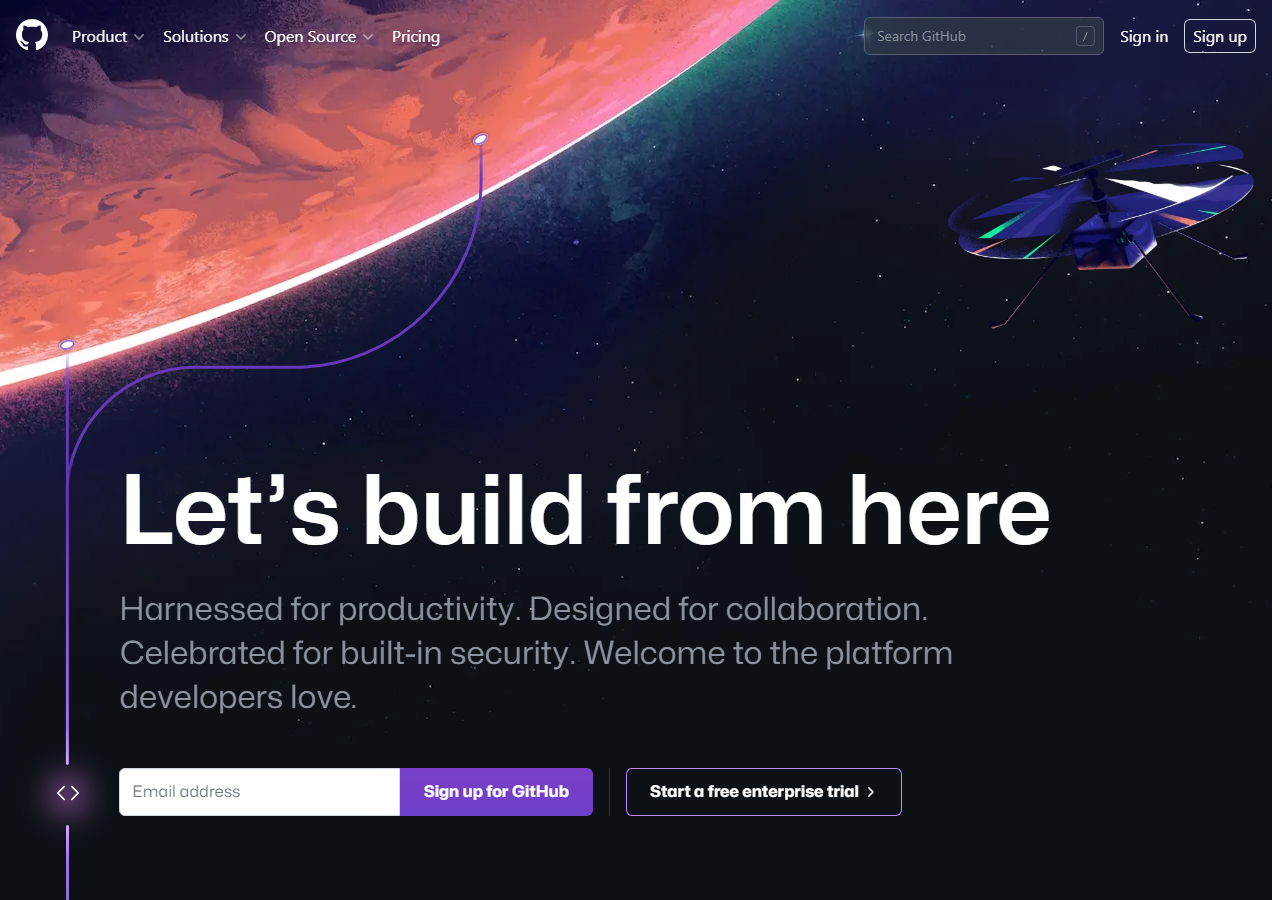
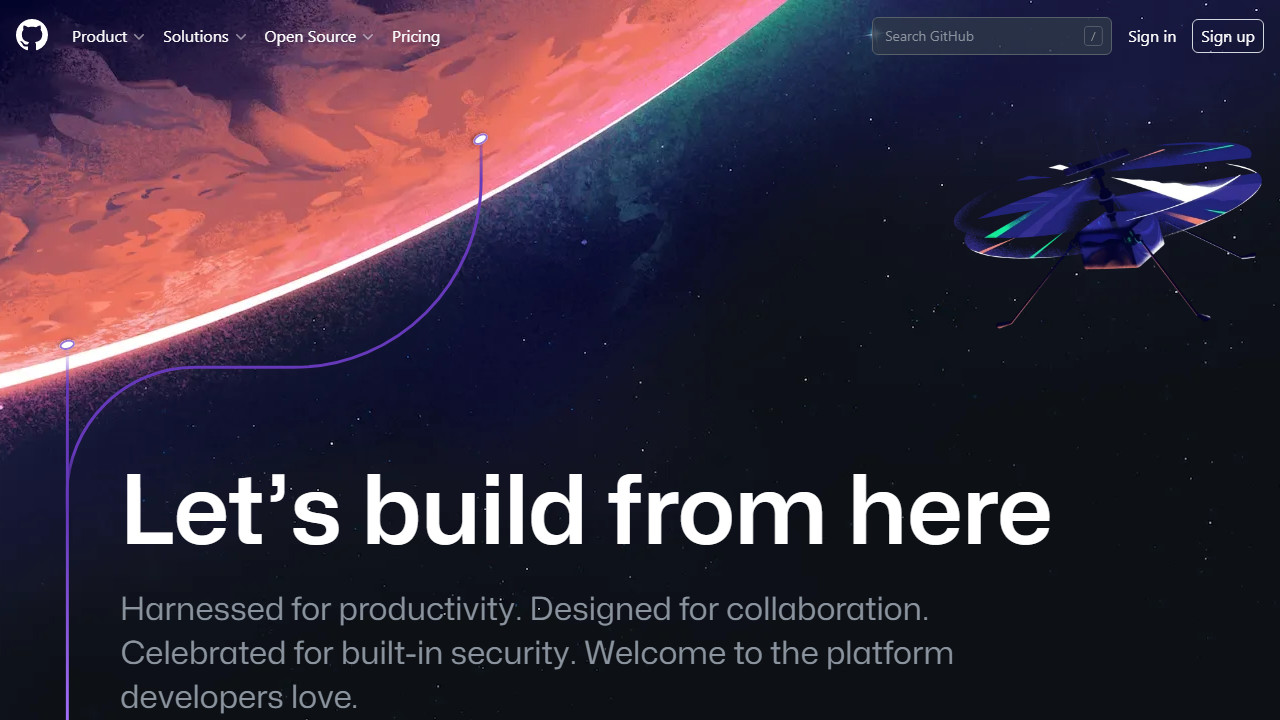
working

diff --git a/index.js b/index.js
@@ -1,53 +1,43 @@
-const puppeteer = require("puppeteer");
-const cheerio = require("cheerio");
+const { chromium, firefox, webkit } = require('playwright');
 
 (async () => {
-    const browser = await puppeteer.launch({
-//      headless: false,
-//      slowMo: 0, 
-        defaultViewport: {
-            width: 1272,
-            height: 900
-        }
-    });
-
-    function MetaTag() {
-        const getMetatag = (name) =>
-            $(`meta[name=${name}]`).attr('content') ||
-            $(`meta[property="og:${name}"]`).attr('content') ||
-            $(`meta[property="og:${name}"]`).attr('content');
-
-
-        return {
-            title: $('title').first().text(),
-            favicon: $('link[rel="shortcut icon"]').attr('href'),
-            description: getMetatag('description'),
-            img: getMetatag("image"),
-            author: getMetatag('author'),
-        }
-    }
-
+    const browser = await chromium.launch();  // Or 'firefox' or 'webkit'.
     const page = await browser.newPage();
-    await page.goto("https://github.com", { waitUntil: "domcontentloaded", });
+    await page.goto('https://github.com');
 
     await page.screenshot({ path: "img/image.png" });
 
-    const pageData = await page.evaluate(() => {
+    // const text = await page.$eval('#e_7043762 > .e_texto.c > p > span', el => el.innerHTML);
+
+    async function tags() {
+        const getMetatag = async (name) => {
+            try {
+                return await page.$eval(`meta[name=${name}]`, el => el.content)
+            }
+            catch (err) {
+                err
+            }
+            try {
+                return await page.$eval(`meta[property="og:${name}"]`, el => el.content)
+            }
+            catch (err) {
+                err
+            }
+        }
         return {
-            html: document.documentElement.innerHTML,
-            width: document.documentElement.clientWidth,
-            height: document.documentElement.clientHeight
-        };
+            title: await page.$eval('title', el => el.innerText),
+            favicon: await page.$eval('link[rel=icon]', el => el.href),
+            description: await getMetatag('description'),
+            img: await getMetatag("image"),
+        }
+    }
+
+    console.log(await tags());
+
+    let html = await page.evaluate(() => {
+        return document.documentElement.innerHTML
     });
 
-
-    const $ = cheerio.load(pageData.html);
-
-    const element = $(".p-name ")
-
-    console.log(element.text());
-    console.log(await MetaTag());
-
-
     await browser.close();
+
 })()
